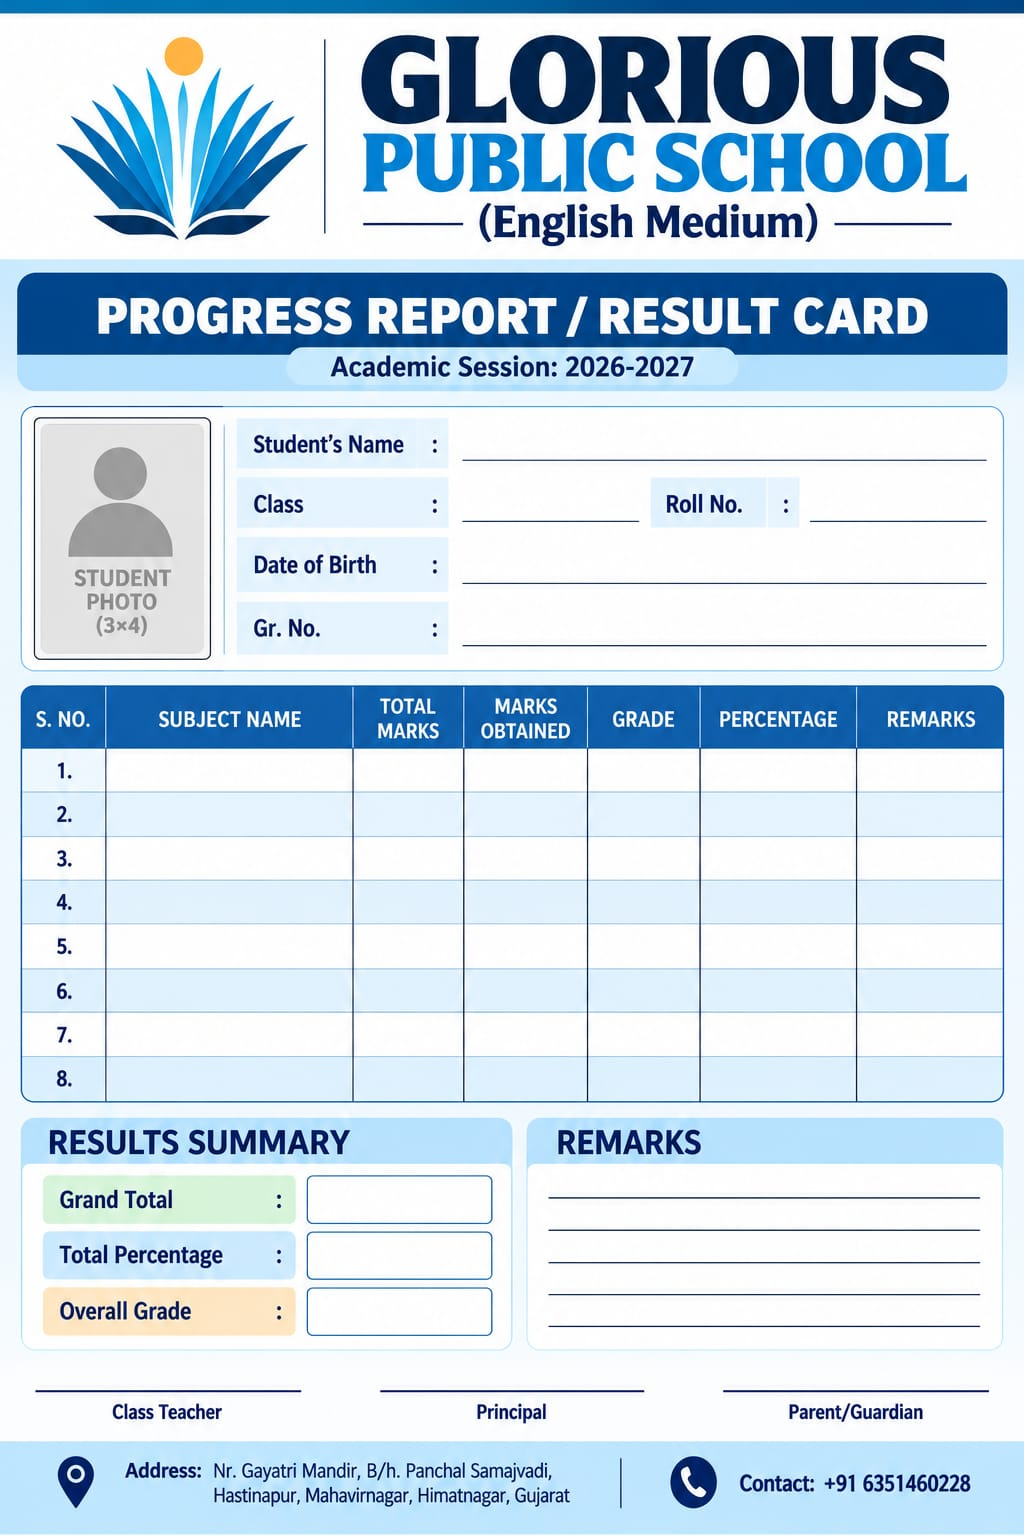
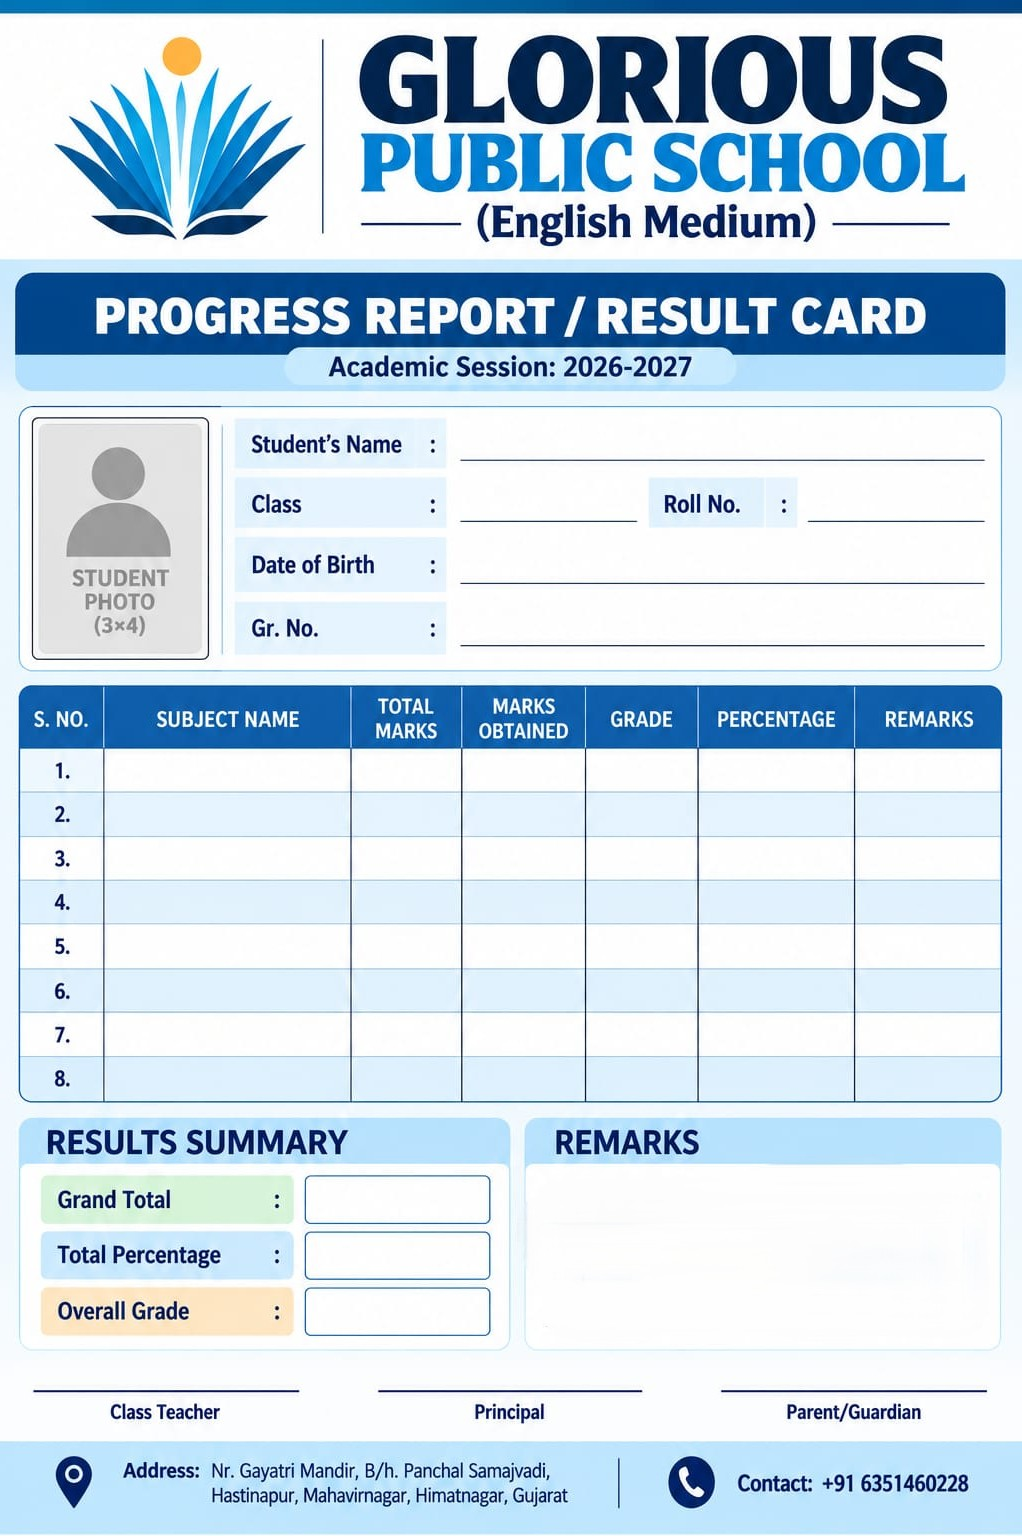
Align report card fields and add subject remarks

diff --git a/src/pdf.js b/src/pdf.js
@@ -47,7 +47,7 @@ const LOGO = (() => {
 const LOGO_RATIO = 360 / 420; // height / width of the logo image
 
 // The supplied artwork is the fixed page background for the result-card
-// template. Its 1024x1536 ratio is 2:3, so that template uses a matching
+// template. Its 1022x1536 image is nearly 2:3, so the template uses a matching
 // 210x315mm custom page instead of A4.
 const RESULT_CARD_TEMPLATE = (() => {
   try {
@@ -707,11 +707,24 @@ function resultCardStudent(doc, report) {
   const st = report.student;
   const color = [8, 24, 101];
   resultCardPhoto(doc, st.photo, st.id);
-  resultCardText(doc, st.name || '-', 94.5, 94, 108, 13, color);
-  resultCardText(doc, `${st.std || '-'}-${st.section || '-'}`, 94.5, 107.1, 37, 12.3, color);
-  resultCardText(doc, String(st.roll || '-'), 164.2, 107.1, 38, 12.3, color);
-  resultCardText(doc, st.dateOfBirth ? niceDate(st.dateOfBirth) : '-', 94.5, 120.3, 108, 12.3, color);
-  resultCardText(doc, st.grNo || '-', 94.5, 133.4, 108, 12.3, color);
+  resultCardText(doc, st.name || '-', 94.5, 93.7, 108, 13, color);
+  resultCardText(doc, `${st.std || '-'}-${st.section || '-'}`, 94.5, 106.25, 37, 12.3, color);
+  resultCardText(doc, String(st.roll || '-'), 166.2, 106.25, 36, 12.3, color);
+  resultCardText(doc, st.dateOfBirth ? niceDate(st.dateOfBirth) : '-', 94.5, 118.9, 108, 12.3, color);
+  resultCardText(doc, st.grNo || '-', 94.5, 131.65, 108, 12.3, color);
+}
+
+function resultCardSubjectRemark(subject) {
+  const custom = safe(subject.remarks || subject.remark || '').trim();
+  if (custom) return custom;
+  if (subject.allAbsent) return 'Absent';
+  if (!subject.max || subject.pct === null || subject.pct === undefined || !Number.isFinite(Number(subject.pct))) return 'No marks';
+  const pct = Number(subject.pct);
+  if (pct >= 90) return 'Excellent';
+  if (pct >= 75) return 'Very good';
+  if (pct >= 60) return 'Good';
+  if (pct >= 40) return 'Needs practice';
+  return 'Needs support';
 }
 
 function resultCardLowerHalf(doc, report, pageSubjects = report.subjects) {
@@ -745,15 +758,15 @@ function resultCardLowerHalf(doc, report, pageSubjects = report.subjects) {
       absent ? 'AB' : num(subject.obtained),
       absent ? 'AB' : grade(pct),
       absent || pct === null ? '-' : `${num(pct)}%`,
-      absent ? 'Absent' : pct !== null && pct < 33 ? 'Needs improvement' : ''
+      resultCardSubjectRemark(subject)
     ];
-    resultCardText(doc, String(index + 1), centers[0], y, columns[1] - columns[0] - 2, 11.3, [8, 24, 101], 'center');
+    resultCardText(doc, `${index + 1}.`, centers[0], y, columns[1] - columns[0] - 2, 11.3, [8, 24, 101], 'center');
     resultCardText(doc, values[0], columns[1] + 2.1, y, columns[2] - columns[1] - 4.2, 11.5, [8, 24, 101]);
     resultCardText(doc, values[1], centers[2], y, columns[3] - columns[2] - 2.5, 11, [8, 24, 101], 'center');
     resultCardText(doc, values[2], centers[3], y, columns[4] - columns[3] - 2.5, 11, [8, 24, 101], 'center');
     resultCardText(doc, values[3], centers[4], y, columns[5] - columns[4] - 2.5, 11, [8, 24, 101], 'center');
     resultCardText(doc, values[4], centers[5], y, columns[6] - columns[5] - 2.5, 11, [8, 24, 101], 'center');
-    resultCardText(doc, values[5], columns[6] + 2, y, columns[7] - columns[6] - 4, 9.4, absent || (pct !== null && pct < 33) ? RED : [8, 24, 101]);
+    resultCardText(doc, values[5], columns[6] + 2, y, columns[7] - columns[6] - 4, 9.4, absent || (pct !== null && pct < 40) ? RED : [8, 24, 101]);
   });
 
   // Draw only the row dividers that belong to the subjects on this page.
@@ -777,7 +790,7 @@ function resultCardLowerHalf(doc, report, pageSubjects = report.subjects) {
     doc.setFontSize(9.1);
     doc.setTextColor(8, 24, 101);
     const lines = doc.splitTextToSize(remarks, 87).slice(0, 5);
-    lines.forEach((line, index) => doc.text(line, 112.8, 242.5 + index * 6.8));
+    lines.forEach((line, index) => doc.text(line, 112.8, 244.5 + index * 6.8));
   }
 }
 

diff --git a/test/api.test.js b/test/api.test.js
@@ -423,12 +423,12 @@ test('result-card template keeps the custom heading and student profile photo', 
   assert.equal(pdf.status, 200);
   assert.equal(pdf.data.subarray(0, 4).toString(), '%PDF');
   const pdfObjects = pdf.data.toString('latin1');
-  assert.match(pdfObjects, /\/Width 1024\s*\/Height 1536/, 'result card embeds the supplied full-page template artwork');
+  assert.match(pdfObjects, /\/Width 1022\s*\/Height 1536/, 'result card embeds the edited full-page template artwork');
   assert.match(pdfObjects, /\/MediaBox \[0 0 595\.275[\d.]+ 892\.913[\d.]+\]/, 'result card uses the template 2:3 page ratio');
 
   const parentPdf = await srv.call('GET', `/api/parent/${created.data.student.parentKey}/report.pdf?template=result-card&heading=${encodeURIComponent(heading)}`);
   assert.equal(parentPdf.status, 200);
-  assert.match(parentPdf.data.toString('latin1'), /\/Width 1024\s*\/Height 1536/, 'parent downloads also use the selected artwork');
+  assert.match(parentPdf.data.toString('latin1'), /\/Width 1022\s*\/Height 1536/, 'parent downloads also use the edited artwork');
 });
 
 test('AI insights for a student', async t => {
